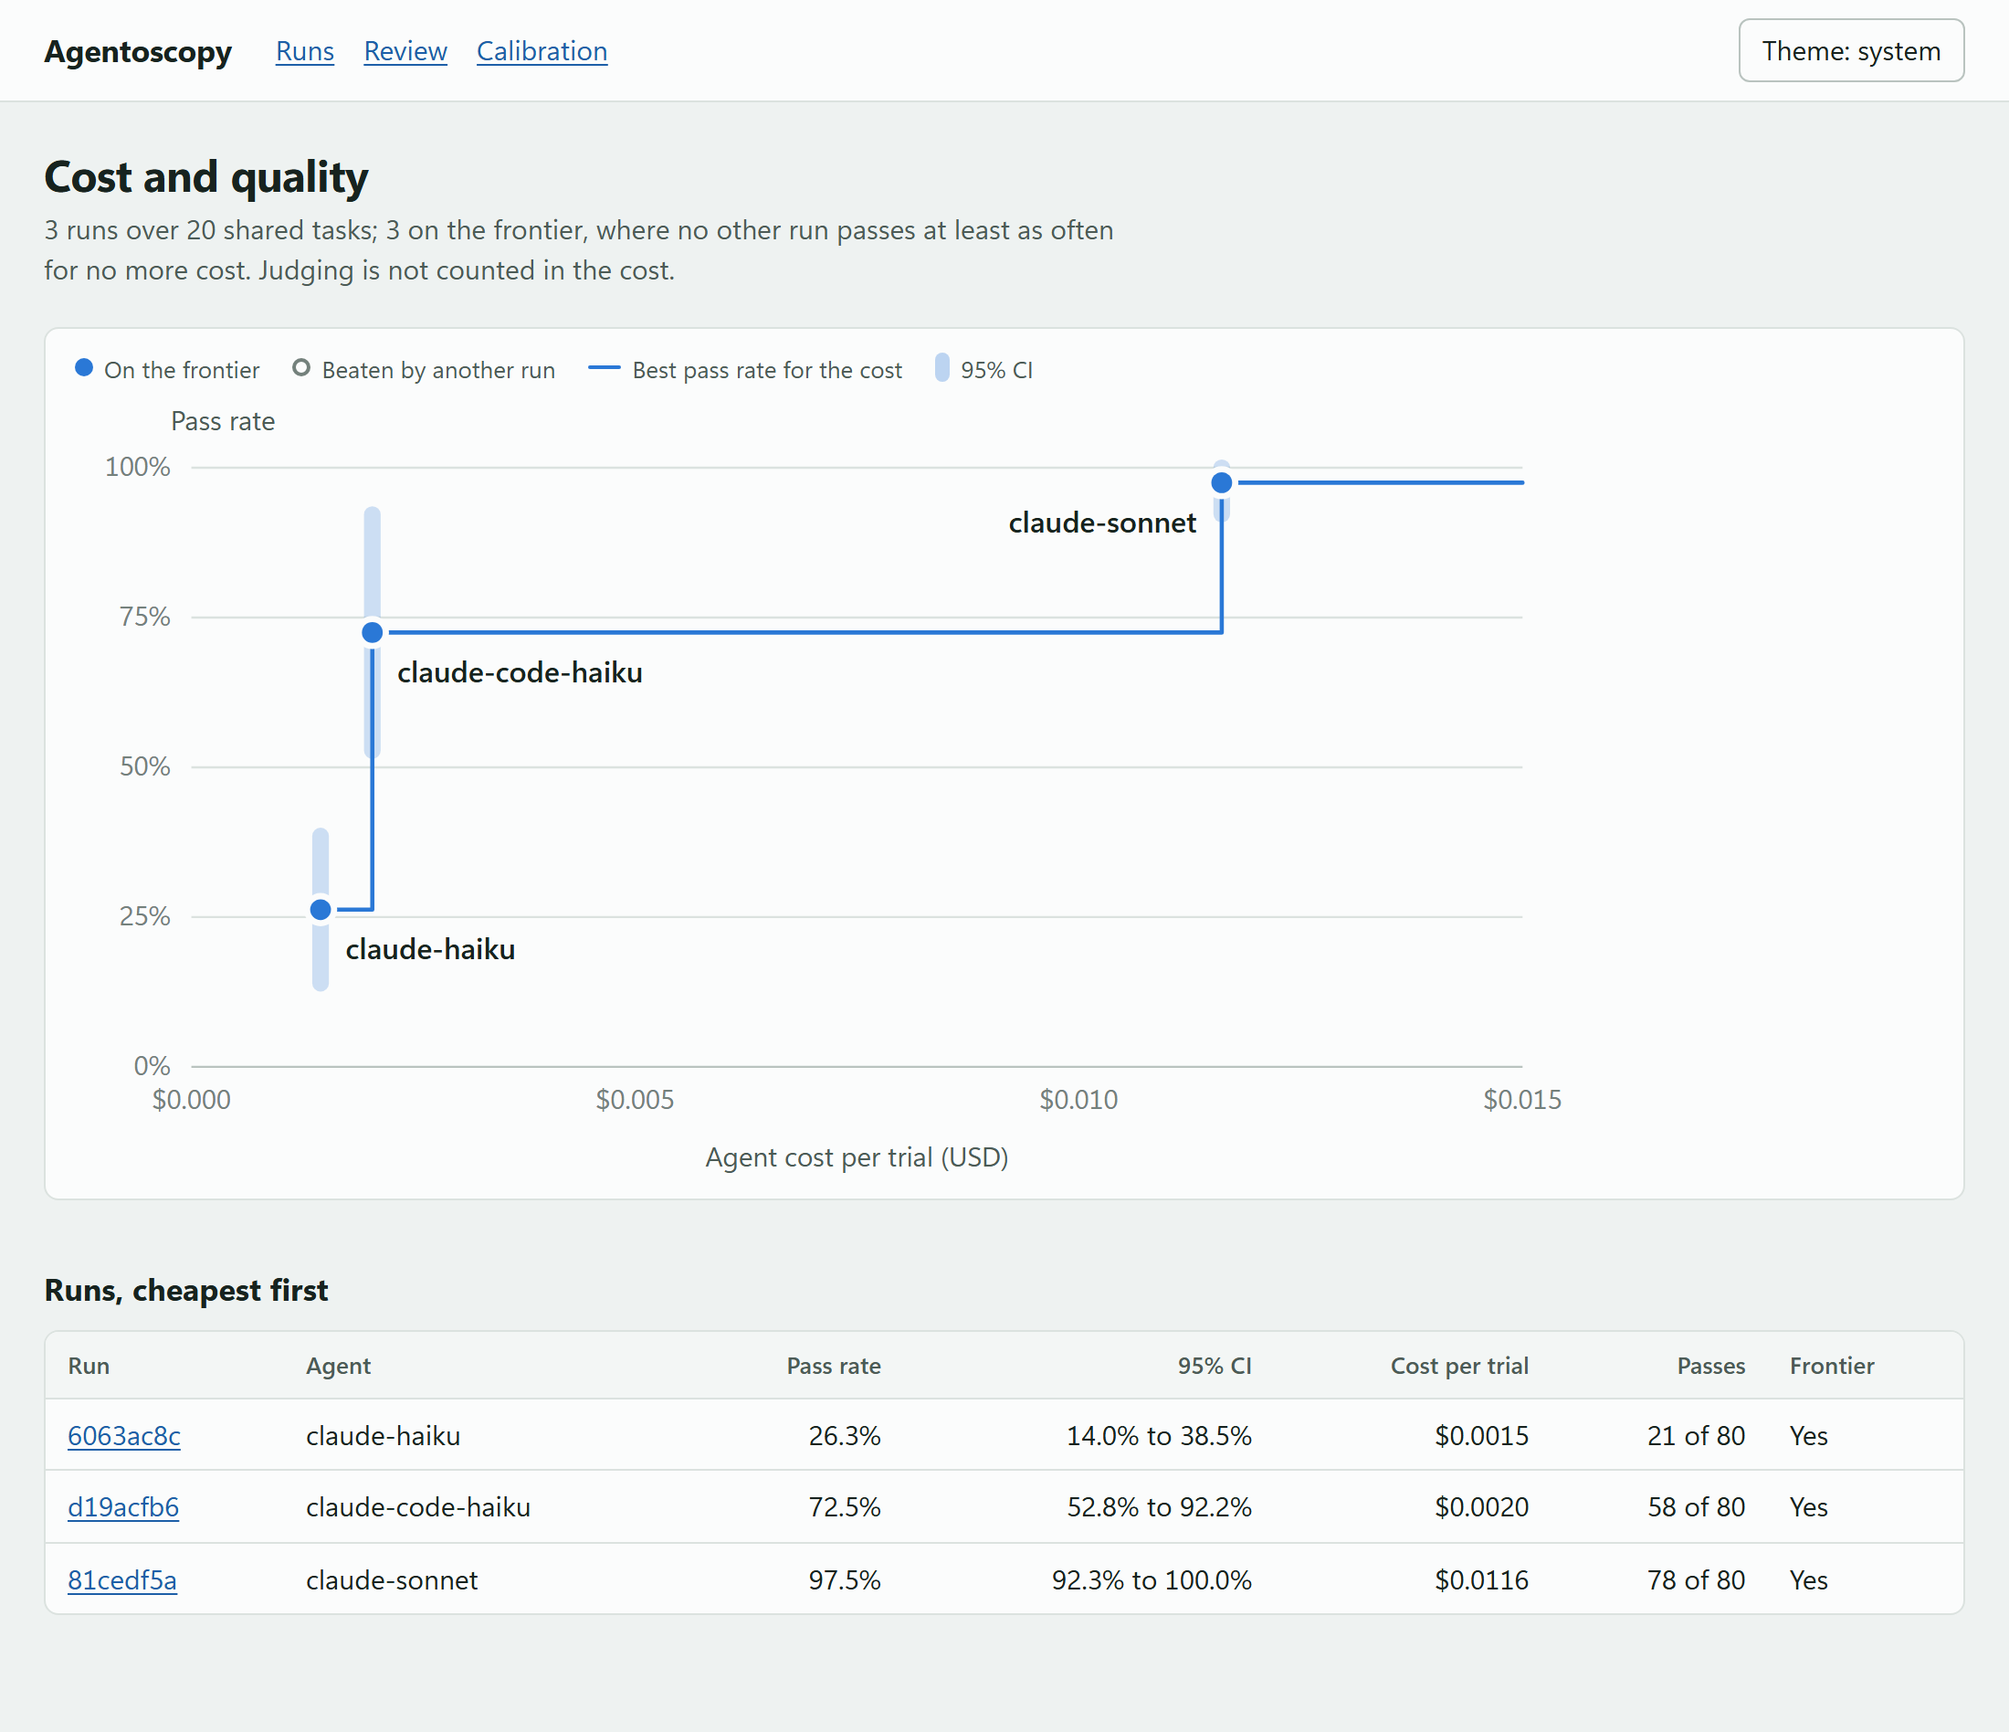
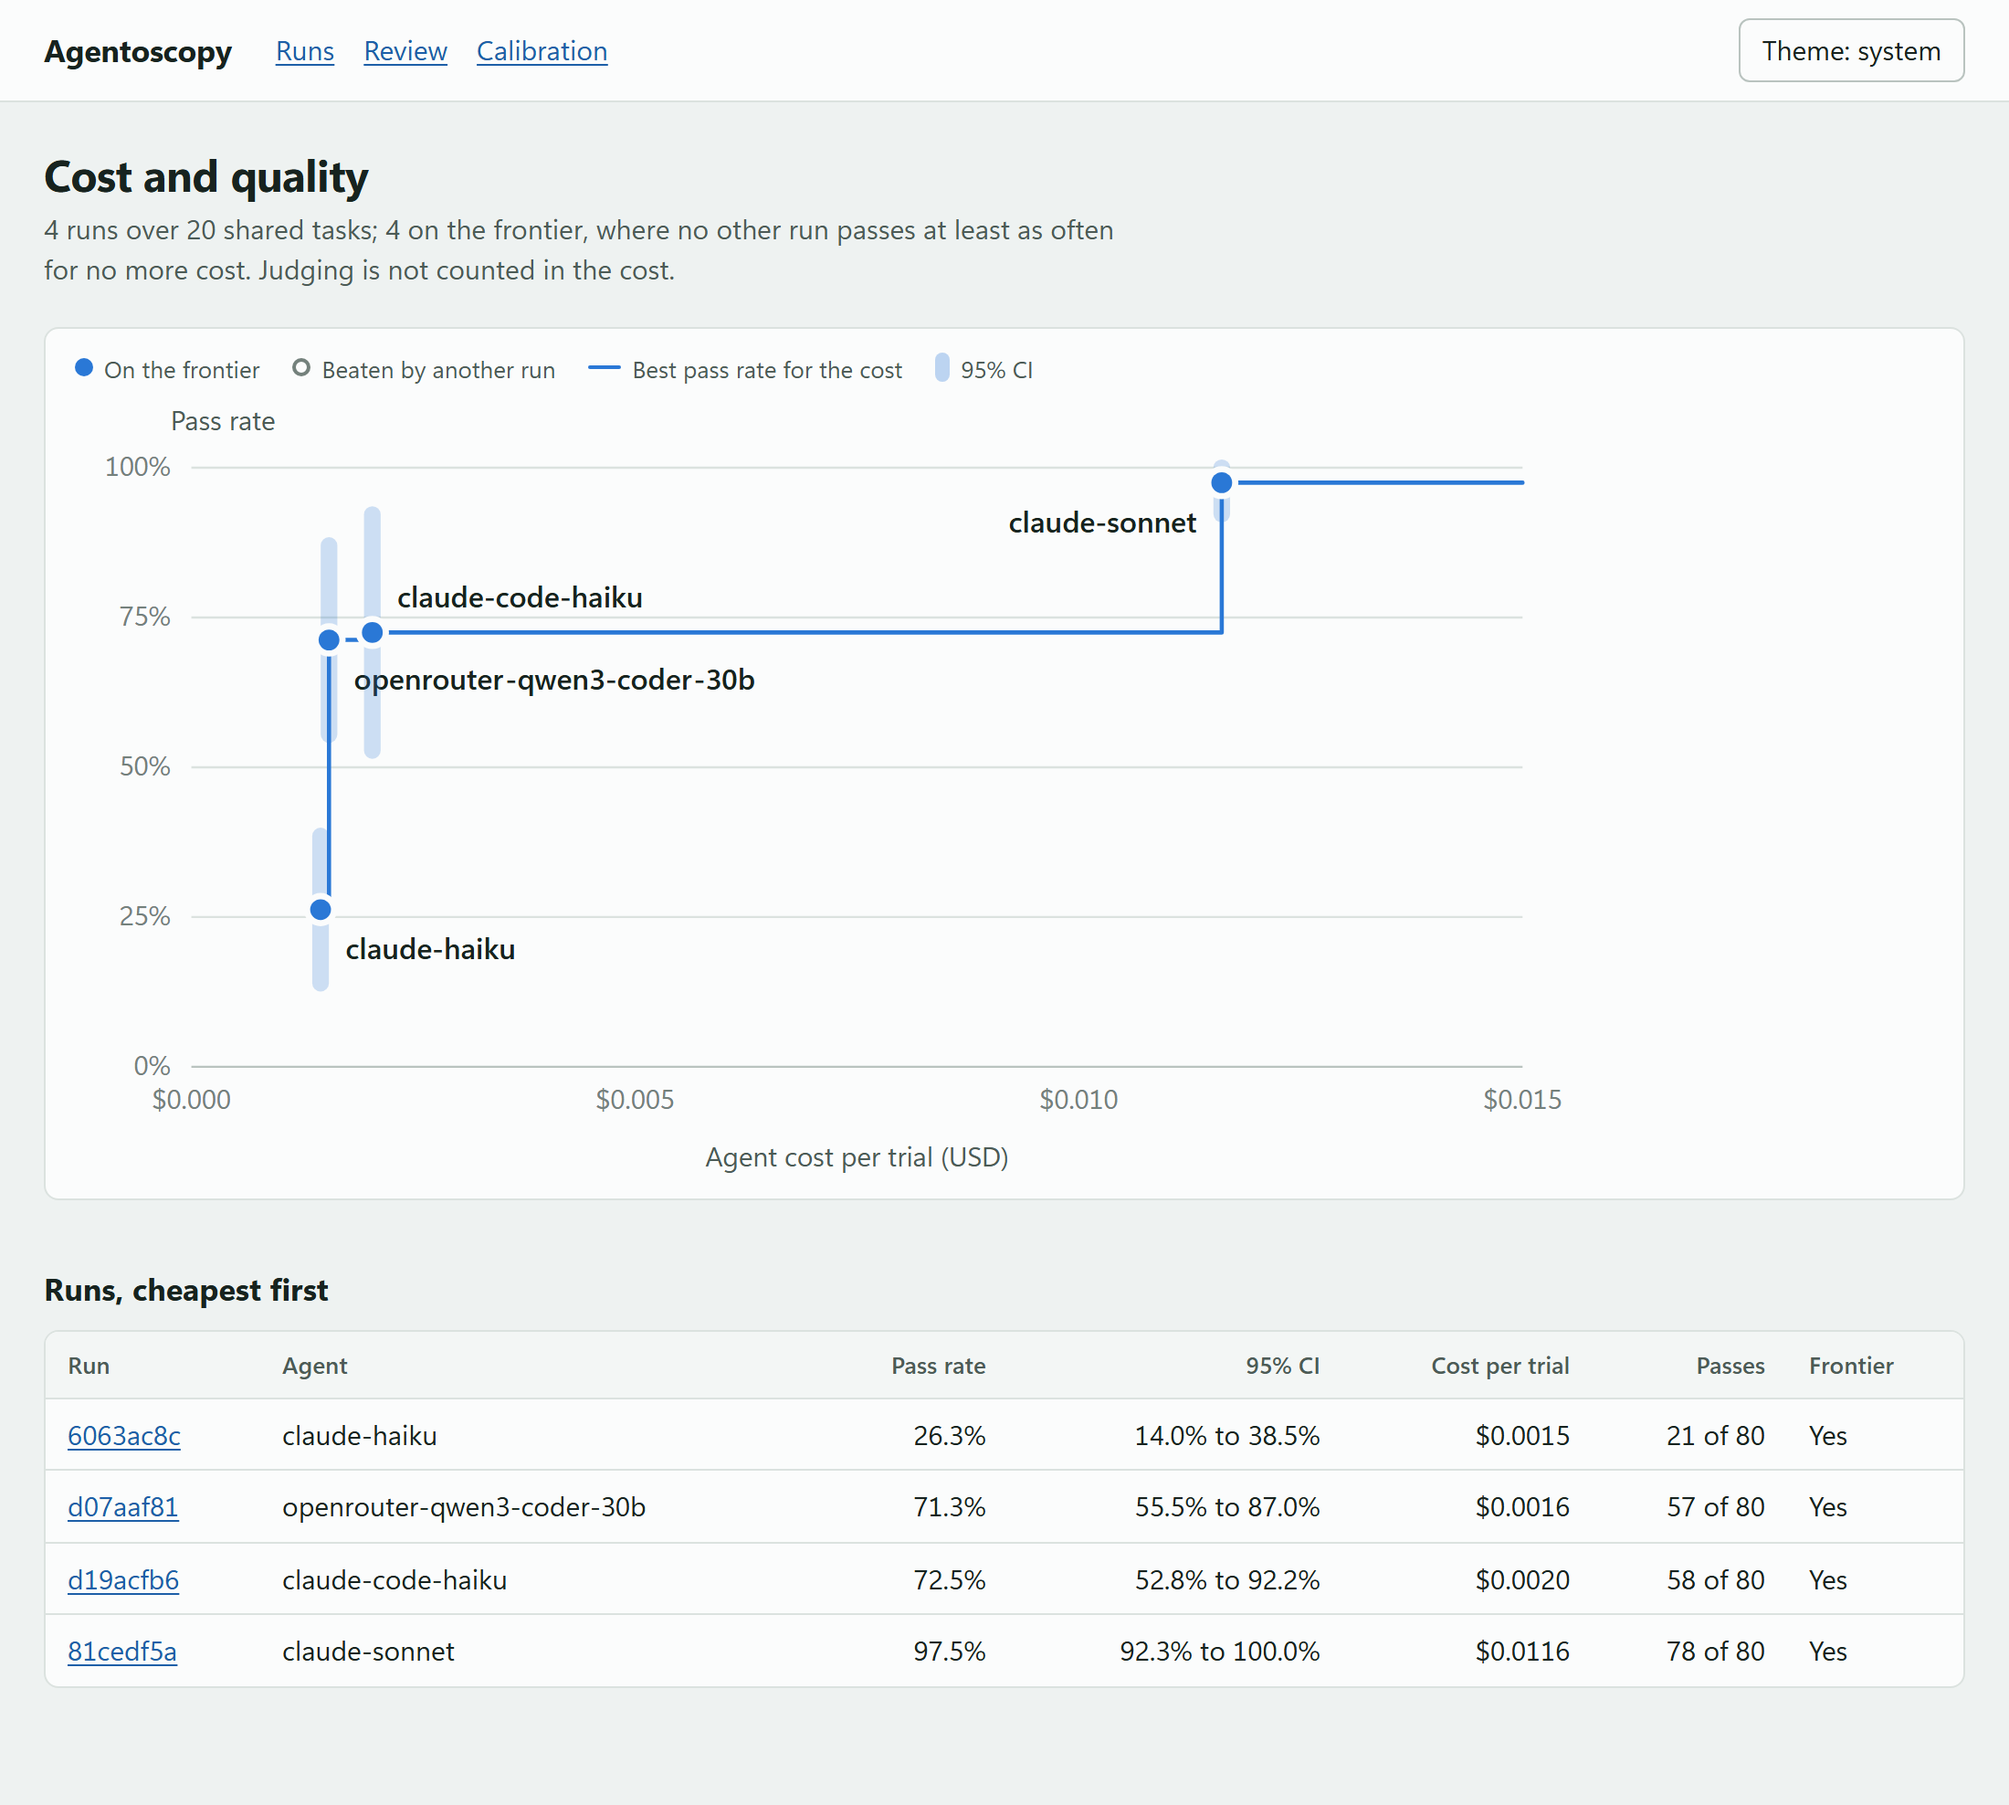
updated readme

diff --git a/README.md b/README.md
@@ -163,14 +163,16 @@ more cost. The chart joins the frontier with a step line: the best pass rate eac
 buys. The frontier compares point estimates, so where intervals overlap, the order may not
 hold. `--format` takes `table`, `md`, or `json`, and the API is `GET /tradeoff?runs=A,B,C`.
 
-![The cost and quality page for three agent configs on the core suite](docs/tradeoff.png)
+![The cost and quality page for four agent configs on the core suite](docs/tradeoff.png)
 
-*Three real runs of the core suite, four trials per task. The example agent on Claude Haiku
-5.5 passes 26.3% of tasks at $0.0015 per trial, Claude Code on the same model 72.5% at
-$0.0020, and the example agent on Claude Sonnet 5.5 97.5% at $0.0116. None beats another on
-both, so all three are on the frontier. Each of Claude Code's 22 failures was a tamper veto
-for editing a protected test file, 20 of them on the tasks that ask for new code; its fixes
-passed the hidden tests in all 22.*
+*Four real runs of the core suite, four trials per task. The example agent on Claude Haiku
+5.5 passes 26.3% of tasks at $0.0015 per trial, the same agent on the open model
+Qwen3-Coder-30B-A3B through OpenRouter 71.3% at $0.0016, Claude Code on Haiku 72.5% at
+$0.0020, and the example agent on Claude Sonnet 5.5 97.5% at $0.0116. Each passes more often
+than the cheaper ones, so all four are on the frontier, though the open model and Claude Code
+are level within their intervals. Each of Claude Code's 22 failures was a tamper veto for
+editing a protected test file, 20 of them on the tasks that ask for new code; its fixes passed
+the hidden tests in all 22.*
 
 ## Grading
 
@@ -320,12 +322,14 @@ Command-line agents name provider models the same way, for example Claude Code w
 `--judge-model ollama/<model>`, though a small model makes a poor judge; the
 [calibration report](#human-review-and-judge-calibration) shows how far to trust it.
 
-Checked for real with the example agent on `qwen/qwen3-coder-30b-a3b-instruct` through
-OpenRouter: `agent check` passed with 5 model calls for $0.0002, and on three core tasks it
-passed 4 of 6 trials for $0.003 in all. Both failures were tamper vetoes for editing a
-protected test file, and its key never reached the recorded trajectories. A run reserves
-each trial's `max_cost_usd` (a task's cap, $1 by default) before starting it, so with a
-model this cheap, a run budget near $1 leaves room for only one trial at a time.
+Checked for real with the example agent on `qwen/qwen3-coder-30b-a3b-instruct:floor`
+through OpenRouter, priced as above: over the core suite, four trials per task, it passed
+71.3% of tasks (the open model on the [cost and quality chart](#cost-against-quality)). The
+run was recorded at $0.1241 and OpenRouter billed $0.1245 for it. 14 of its 23 failures were
+tamper vetoes for editing a protected test file, and its key never reached the recorded
+results. A run reserves each trial's `max_cost_usd` (a task's cap, $1 by default) before
+starting it, so the run budget must cover that cap on top of what the run spends; this one
+used `--budget-usd 1.3`.
 
 ### Command-line agents
 
